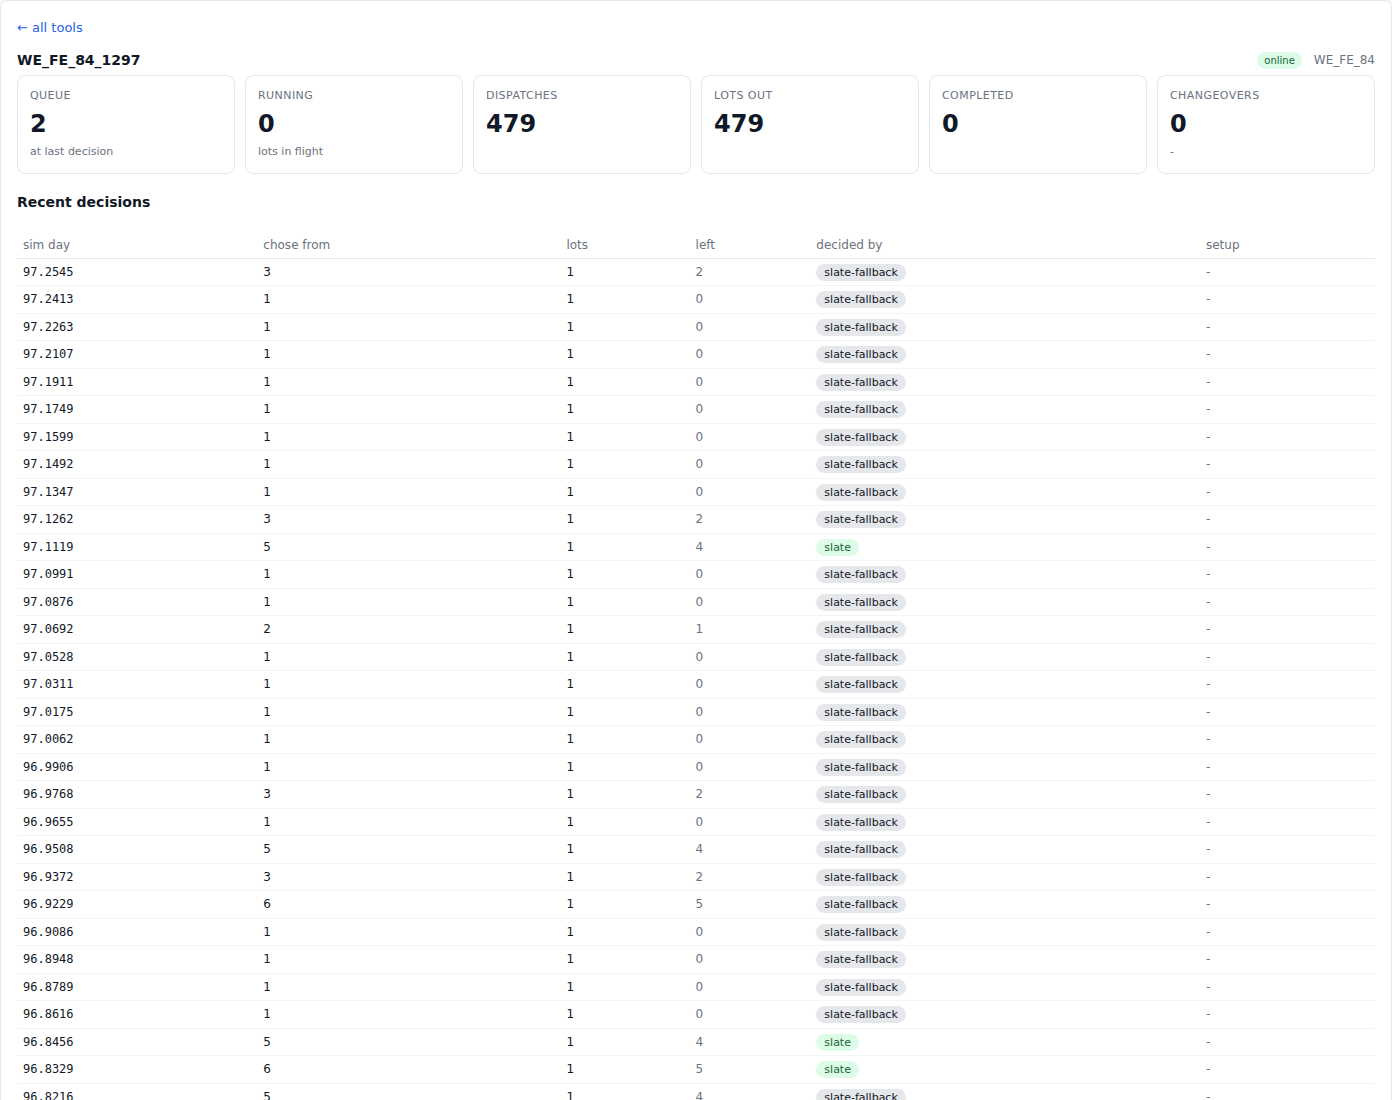
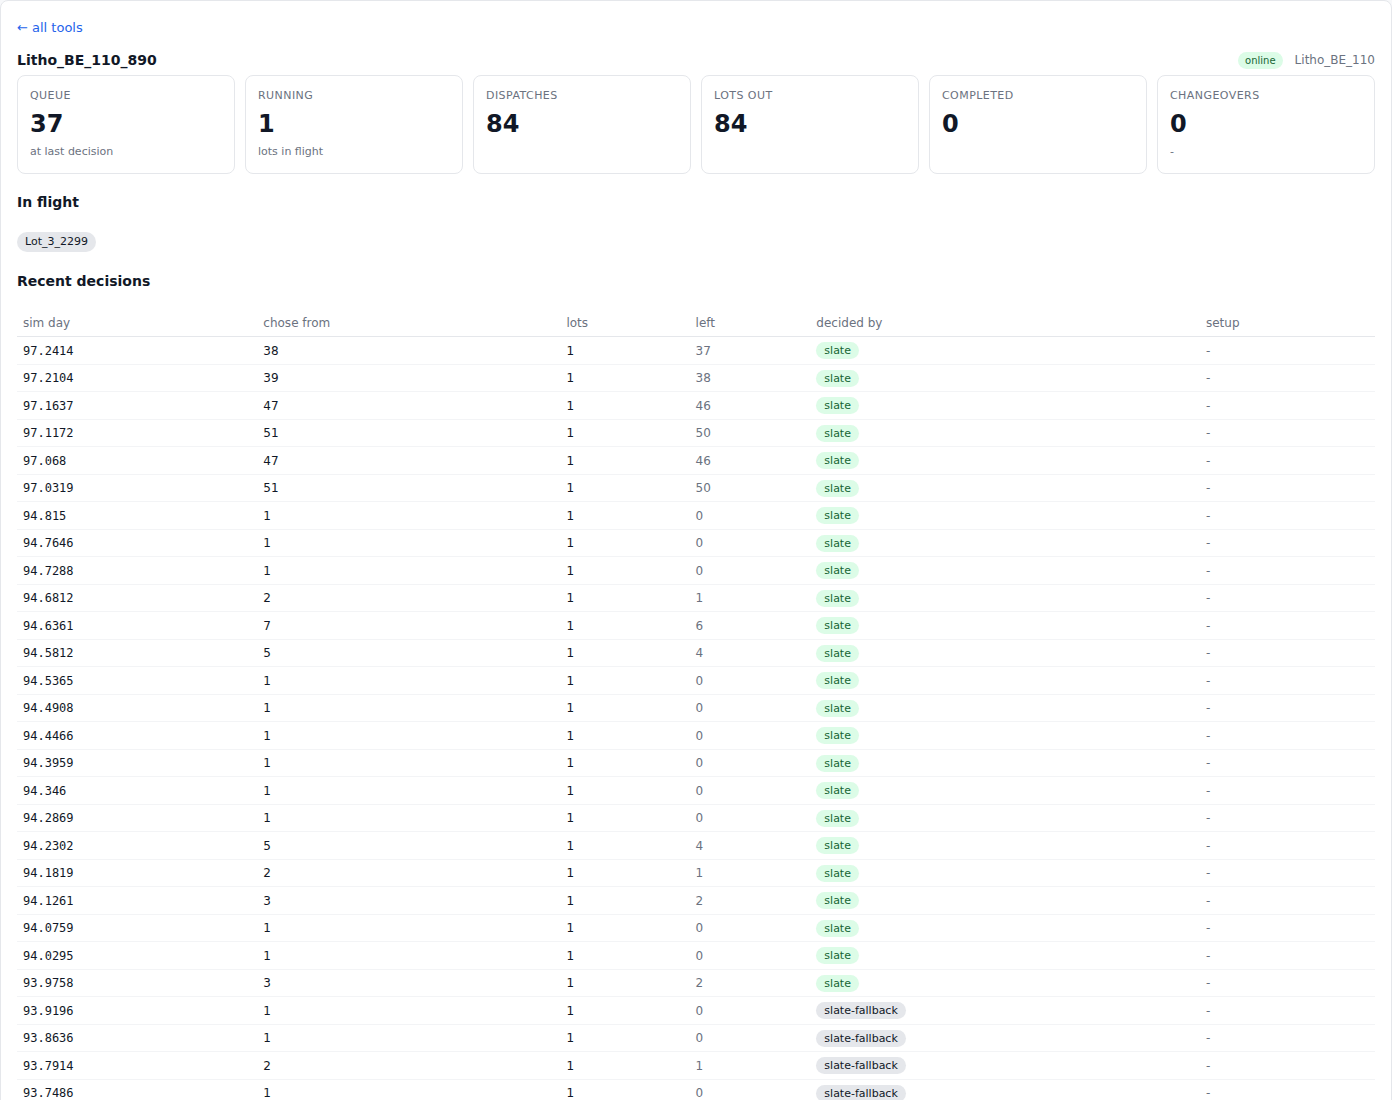
README tour: tool page on a litho bottleneck where the slate decides from 40-50 lots
Claude-Session: https://claude.ai/code/session_013AEQWXnqfUe5GqHVavaMmw

diff --git a/README.md b/README.md
@@ -97,15 +97,16 @@ drills down to its dispatches and the choice set it was offered.
 ### Tool — one machine's decisions
 ![tool](docs/screenshots/tool.png)
 
-`#/tools/WE_FE_84_1297`: one tool's queue, lots in flight, dispatches,
-completions and changeovers, and then every recent dispatch decision made
-at it — the simulated day, how many lots it **chose from**, how many were
-left waiting, and **who decided**: `slate` when the CP-SAT slate held a pick
-for this tool, `slate-fallback` when the solver-consistent fallback score
-did. This is the optimized-decisions KPI at decision resolution. It also
-shows where an optimizer can and cannot matter: a choice set of 1 is not a
-decision, and on a lightly queued tool most rows are exactly that; the
-`slate` rows cluster where five or six lots were waiting.
+`#/tools/Litho_BE_110_890`: one lithography tool's queue, lots in flight,
+dispatches and changeovers, and then every recent dispatch decision made at
+it — the simulated day, how many lots it **chose from**, how many were left
+waiting, and **who decided**: `slate` when the CP-SAT slate held a pick for
+this tool, `slate-fallback` when the solver-consistent fallback score did.
+This is the optimized-decisions KPI at decision resolution, and litho is
+where it counts: at the top of the log the tool is choosing one lot from
+38–51 waiting, and every one of those choices is the slate's. The
+`slate-fallback` rows at the bottom are from the first hours after the
+switch, before the planner had a token for this tool.
 
 ### Floor — the cleanroom as a map
 ![floor](docs/screenshots/floor.png)
